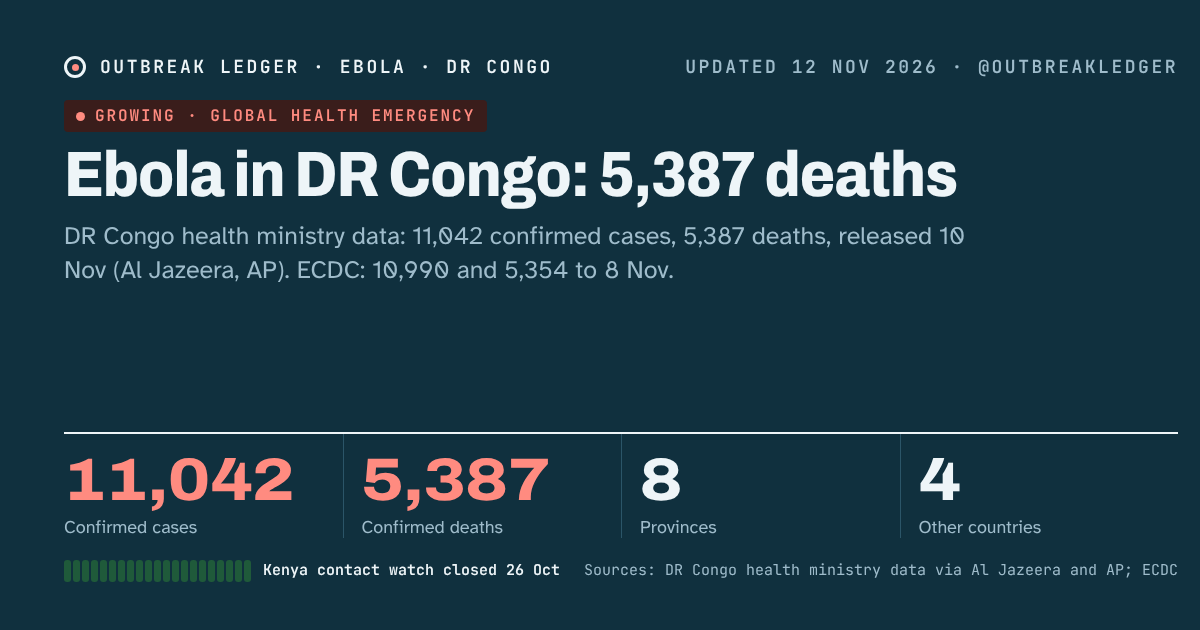
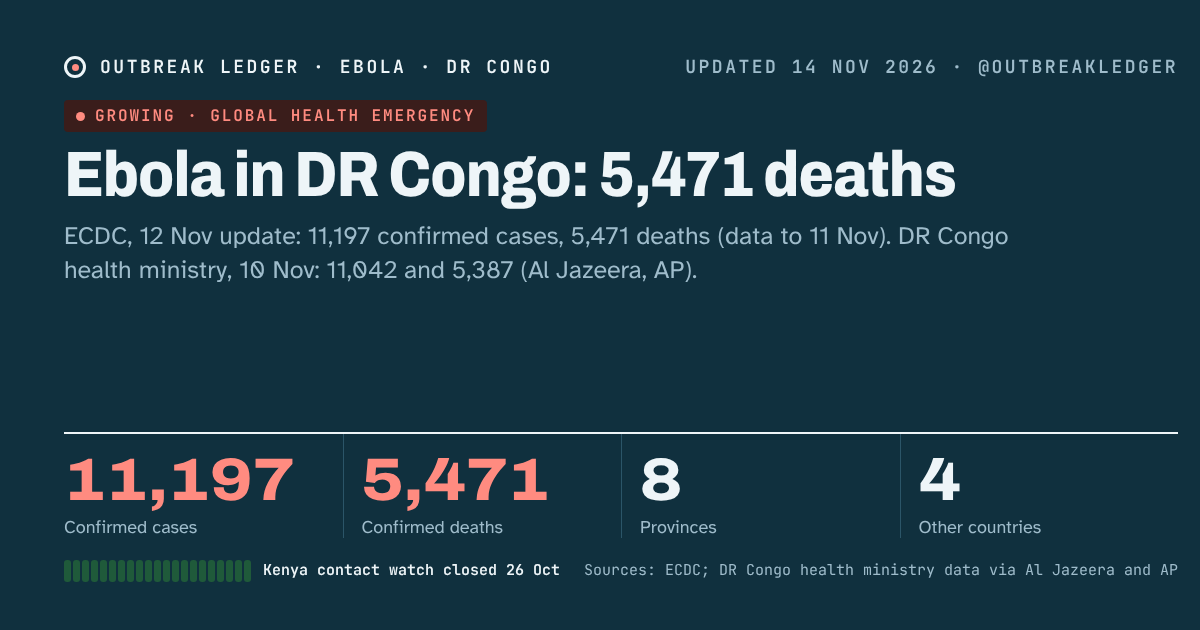
Trackers: Ebola ECDC 11,197 cases / 5,471 deaths (12 Nov); others checked, no change
Claude-Session: https://claude.ai/code/session_01DjK934MGj4uKY77RiACNyU

diff --git a/site/ebola/share/latest-post.md b/site/ebola/share/latest-post.md
@@ -1,5 +1,5 @@
-DR Congo health ministry data show 11,042 confirmed Ebola cases and 5,387 deaths (Al Jazeera, AP). ECDC counts 10,990 cases and 5,354 deaths to 8 Nov. Kenya began a 42-day countdown after discharging its last patient.
+ECDC counts 11,197 confirmed Ebola cases and 5,471 deaths in DR Congo (12 Nov update, data to 11 Nov). The health ministry's 10 Nov data showed 11,042 and 5,387 (Al Jazeera, AP). Kenya began a 42-day countdown on 11 Nov.
 
 https://nhlebe1.github.io/ai-scheduler-platform/ebola/
 
-Sources: Al Jazeera and AP (11 Nov); ECDC update of 10 Nov (ecdc.europa.eu/en/public-health-events/2026-eip-00026/2026-11-10); Africanews and ABC News (11 Nov) for Kenya.
+Sources: ECDC update of 12 Nov (ecdc.europa.eu/en/public-health-events/2026-eip-00026/2026-11-12); Al Jazeera and AP (11 Nov); Africanews and ABC News (11 Nov) for Kenya.
